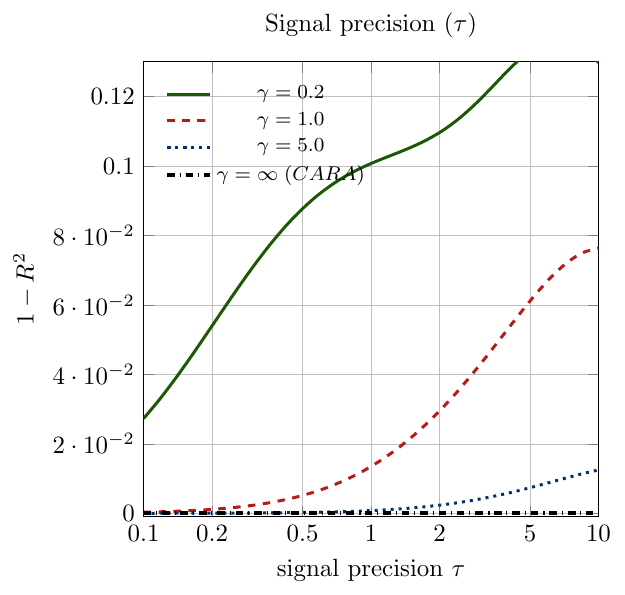
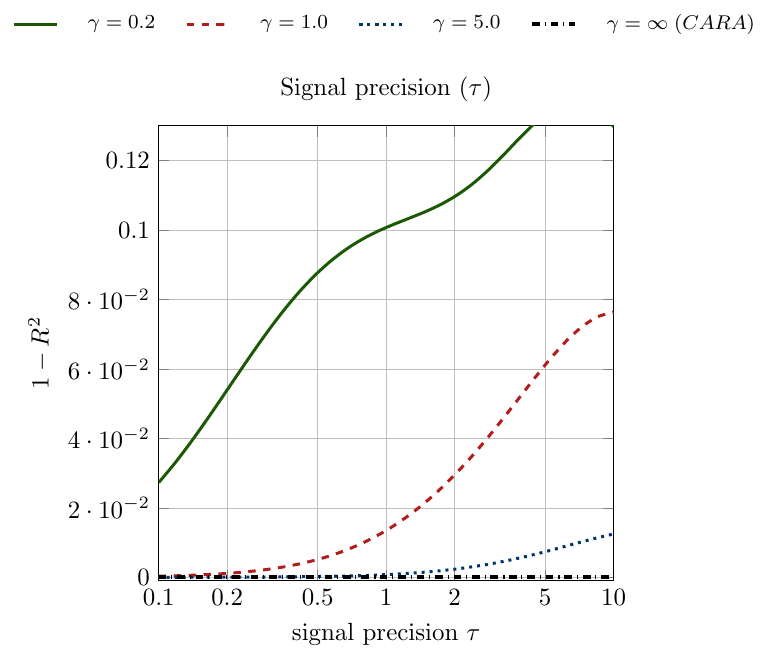
Legend in single row above title

diff --git a/figures/fig_knife_edge.tex b/figures/fig_knife_edge.tex
@@ -19,8 +19,10 @@
     grid=both,
     grid style={line width=.1pt, draw=gray!20},
     major grid style={line width=.2pt, draw=gray!50},
-    legend pos=north west,
-    legend style={fill=none, draw=none, font=\footnotesize},
+    legend style={
+        at={(0.5,1.18)}, anchor=south, legend columns=-1,
+        column sep=10pt, fill=none, draw=none, font=\footnotesize
+    },
     smooth,
 ]
 \addplot[green, solid, very thick] coordinates {(0.1,0.0272947) (0.11721,0.032717) (0.137382,0.0386436) (0.161026,0.0449672) (0.188739,0.0515475) (0.221222,0.0582201) (0.259294,0.0648082) (0.30392,0.0711371) (0.356225,0.0770491) (0.417532,0.0824171) (0.48939,0.0871547) (0.573615,0.0912223) (0.672336,0.0946292) (0.788046,0.0974326) (0.923671,0.0997364) (1.08264,0.101688) (1.26896,0.103473) (1.48735,0.105312) (1.74333,0.10743) (2.04336,0.110034) (2.39503,0.11329) (2.80722,0.117234) (3.29034,0.12173) (3.85662,0.126457) (4.52035,0.130868) (5.29832,0.134501) (6.21017,0.13682) (7.27895,0.136885) (8.53168,0.134422) (10,0.129785)};

diff --git a/figures/fig_knife_edge_K.tex b/figures/fig_knife_edge_K.tex
@@ -17,8 +17,10 @@
     grid=both,
     grid style={line width=.1pt, draw=gray!20},
     major grid style={line width=.2pt, draw=gray!50},
-    legend pos=north east,
-    legend style={fill=none, draw=none, font=\footnotesize},
+    legend style={
+        at={(0.5,1.18)}, anchor=south, legend columns=-1,
+        column sep=10pt, fill=none, draw=none, font=\footnotesize
+    },
     smooth,
 ]
 \addplot[green, solid, very thick] coordinates {(3,0.108924) (4,0.0961452) (5,0.0866528) (6,0.0778281) (7,0.0708531) (8,0.0649077) (9,0.0596315) (10,0.0553081)};
